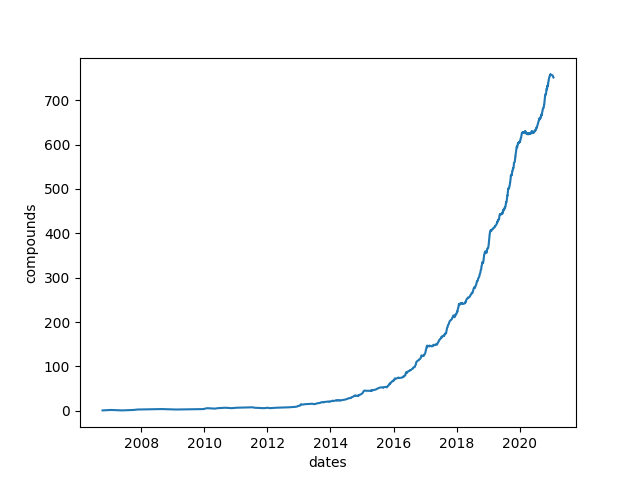
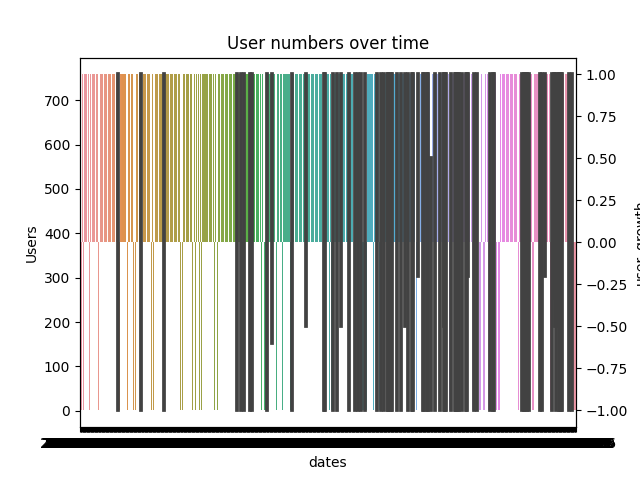
change added to plot

diff --git a/analytics.py b/analytics.py
@@ -53,7 +53,13 @@ def plot_user_numbers():
 
     print(user_change)
 
-    sns.lineplot(x = 'dates', y = 'compounds', data = user_change) 
+    fig, comp = plt.subplots()
+    comp.set_title('User numbers over time')
+    comp.set_ylabel('Users')
+    comp = sns.lineplot(x = 'dates', y = 'compounds', data = user_change) 
+    change = comp.twinx()
+    change.set_ylabel('change in users')
+    change = sns.barplot(x='dates', y='user_growth', data = user_change)
     plt.savefig('user_numbers.png')
 
 plot_user_numbers()
